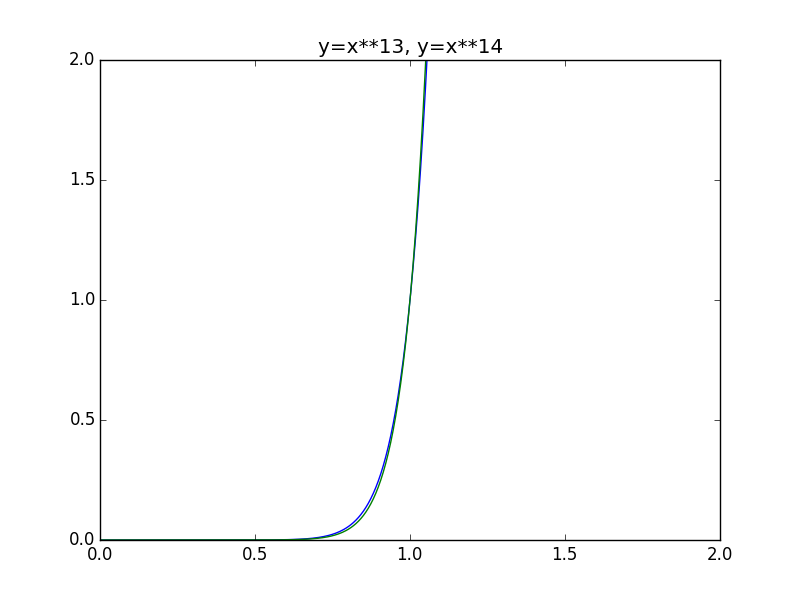
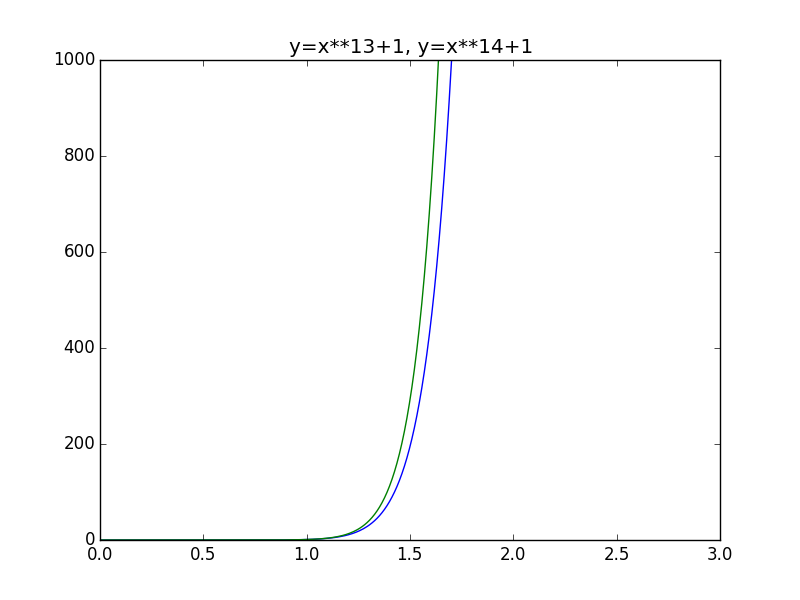
Last edits to data visualization

diff --git a/Labs/ScientificVisualization/solutions.py b/Labs/ScientificVisualization/solutions.py
@@ -1,0 +1,203 @@
+from matplotlib import pyplot as plt
+from numpy.random import normal
+from scipy.misc import comb as comb
+import numpy as np
+
+#Implement this function
+def problemOne():
+    '''
+    Order and plot the data as a horizontal bar chart.
+    '''
+    male = np.array([179.2,160.0,177.8,178.9,178,176,172.5,165.6,170.8,183.2,182.4,164,163.6,175.4,174,176.1,165.7])
+    female = np.array([167.6,142.2,164.5,165.3,165,164,158,154.9,157.4,168.4,168,151,151.4,164,158.9,162.1,155.2])
+    country = 'Austria', 'Bolivia', 'England', 'Finland', 'Germany', 'Hungary', 'Japan','North Korea', 'South Korea', 'Montenegro', 'Norway', 'Peru','Sri Lanka', 'Switzerland', 'Turkey', 'U.S.', 'Vietnam'
+    pos = np.arange(17)+.5
+
+    plt.subplot(2, 1, 1)
+    idx = np.argsort(male)
+    male = np.array(male)[idx]
+    country1 = np.array(country)[idx]
+    plt.barh(pos,male,align='center')
+    plt.yticks(pos,country1)
+
+    plt.subplot(2, 1, 2)
+    idx = np.argsort(female)
+    female = np.array(female)[idx]
+    country2 = np.array(country)[idx]
+    plt.barh(pos,female,align='center')
+    plt.yticks(pos,country2)
+    plt.show()
+
+# Implement this function
+def problemTwo():
+    '''
+    Plot some histograms with white reference lines.  Do this for 20 bins,
+    10 bins, 5 bins, and 3 bins
+    '''
+    normal_numbers = normal(size=1000)
+    plt.subplot(1, 4, 1)
+    plt.hist(normal_numbers,bins = 20)
+    plt.title("histogram")
+    plt.grid(True, color = 'w', linestyle = '-')
+
+    plt.subplot(1, 4, 2)
+    plt.hist(normal_numbers,bins=10)
+    plt.title("histogram")
+    plt.grid(True, color = 'w', linestyle = '-')
+
+    plt.subplot(1, 4, 3)
+    plt.hist(normal_numbers,bins=5)
+    plt.title("histogram")
+    plt.grid(True, color = 'w', linestyle = '-')
+
+    plt.subplot(1, 4, 4)
+    plt.hist(normal_numbers,bins=5)
+    plt.title("histogram")
+    plt.grid(True, color = 'w', linestyle = '-')
+    plt.show()
+
+# Implement this function
+def problemThree():
+    '''
+    Plot y = x^2 * sin(x) using 1000 data points and x in [0,100]
+    '''
+    x = np.linspace(0,100,num=1000)
+    y = x**2*np.sin(x)
+    plt.plot(x,y)
+    plt.show()
+
+# Implement this function
+def problemFour():
+    '''
+    Plot a scatter plot of the average heights of men against women
+    using the data from problem 1.
+    '''
+    male = np.array([179.2,160.0,177.8,178.9,178,176,172.5,165.6,170.8,183.2,182.4,164,163.6,175.4,174,176.1,165.7])
+    female = np.array([167.6,142.2,164.5,165.3,165,164,158,154.9,157.4,168.4,168,151,151.4,164,158.9,162.1,155.2])
+    country = 'Austria', 'Bolivia', 'England', 'Finland', 'Germany', 'Hungary', 'Japan','North Korea', 'South Korea', 'Montenegro', 'Norway', 'Peru','Sri Lanka', 'Switzerland', 'Turkey', 'U.S.', 'Vietnam'
+    plt.scatter(female,male)
+    plt.show()
+    
+# Implement this function
+def problemFive():
+    '''
+    Plot a contour map of z = sin(x) + sin(y) where x is in [0,12*pi] and
+    y is in [0,12*pi]
+    '''
+    x = np.linspace(0,12*np.pi,num=400)
+    y = np.linspace(0,12*np.pi,num=400)
+    X,Y = np.meshgrid(x,y)
+    Z = np.sin(X)+np.sin(Y)
+    plt.contourf(X,Y,Z,cmap=plt.get_cmap('afmhot'))
+    plt.show()
+    
+# Implement this function
+def problemSix():
+    '''
+    Plot each data set.
+    '''
+    dataI = np.array([[10,8.04],[8.,6.95],[13.,7.58],[9,8.81],[11.,8.33],[14.,9.96],[6.,7.24],[4.,4.26],[12.,10.84],[7.,4.82],[5.,5.68]])
+    dataII = np.array([[10,9.14],[8.,8.14],[13.,8.74],[9,8.77],[11.,9.26],[14.,8.10],[6.,6.13],[4.,3.10],[12.,9.13],[7.,7.26],[5.,4.74]])
+    dataIII = np.array([[10,7.46],[8.,6.77],[13.,12.74],[9,7.11],[11.,7.81],[14.,8.84],[6.,6.08],[4.,5.39],[12.,8.15],[7.,6.42],[5.,5.73]])
+    dataIV = np.array([[8.,6.58],[8.,5.76],[8.,7.71],[8.,8.84],[8.,8.47],[8.,7.04],[8.,5.25],[19.,12.50],[8.,5.56],[8.,7.91],[8.,6.89]])
+    plt.subplot(2, 2, 1)
+    plt.scatter(dataI[:,0],dataI[:,1])
+    plt.subplot(2, 2, 2)
+    plt.scatter(dataII[:,0],dataII[:,1])
+    plt.subplot(2, 2, 3)
+    plt.scatter(dataIII[:,0],dataIII[:,1])
+    plt.subplot(2, 2, 4)
+    plt.scatter(dataIV[:,0],dataIV[:,1])
+    plt.show()
+
+# Implement this function
+def problemSeven():
+    '''
+    Change the surface to a heatmap or a contour plot.  Return a string
+    of the benefits of each type of visualization.
+    '''
+    x = np.linspace(-2*np.pi,2*np.pi,num=400)
+    y = np.linspace(-2*np.pi,2*np.pi,num=400)
+    X,Y = np.meshgrid(x,y)
+    Z = np.exp(np.cos(np.sqrt(X**2 + Y**2)))
+    plt.contourf(X, Y, Z ,cmap=plt.get_cmap('afmhot'))
+    plt.show()
+
+# Implement this function
+def problemEight():
+    '''
+    Plot y = x^2 * sin(x) where x is in [0,100] and adjust to y limit to be
+    [-10^k,10^k] for k = 0,1,2,3,4.
+    '''
+    x = np.linspace(0,100,num=1000)
+    y = x**2*np.sin(x)
+    for k in range(5):
+        plt.plot(x,y)
+        plt.ylim(-10**k,10**k)
+        plt.show()
+
+# Implement this function
+def problemNine():
+    '''
+    Simplify one of your previous graphs.
+    '''
+    normal_numbers = normal(size=1000)
+    plt.hist(normal_numbers,bins = 20,edgecolor='none')
+    plt.title("histogram")
+    plt.grid(True, color = 'w', linestyle = '-')
+    axis = plt.gca()
+    axis.spines['right'].set_visible(False)
+    axis.spines['top'].set_visible(False)
+    
+    axis.yaxis.set_ticks_position('left')
+    axis.xaxis.set_ticks_position('bottom')
+
+    plt.xticks(np.arange(-4, 4.1, 1))
+    plt.yticks(np.arange(0, 140, 20))
+    plt.show()
+
+# Implement this function
+def problemTen():
+    '''
+    Plot the Bernstein polynomials for v,n in [0,3] as small multiples
+    and as the cluttered version.
+    '''
+    fig = plt.figure(dpi=100)
+    fig.suptitle('Bernstein Polynomials', fontsize=20)
+    v = range(4)
+    n = range(4)
+    x = np.linspace(0,1,num=100)
+    for v in range(4):
+        for n in range(4):
+            y = comb(n,v)*x**v*(1-x)**(n-v)
+            ax = plt.subplot(4,4,4*v+n+1)
+            ax.plot(x,y , lw=2)
+    plt.show()
+    for v in range(4):
+        for n in range(4):
+            y = comb(n,v)*x**v*(1-x)**(n-v)
+            plt.plot(x,y , lw=2)
+    plt.show()
+
+if __name__ == '__main__':
+    print "1"
+    problemOne()
+    print "2"
+    problemTwo()
+    print "3"
+    problemThree()
+    print "4"
+    problemFour()
+    print "5"
+    problemFive()
+    print "6"
+    problemSix()
+    print "7"
+    problemSeven()
+    print "8"
+    problemEight()
+    print "9"
+    problemNine()
+    print "10"
+    problemTen()
+    

diff --git a/Labs/ScientificVisualization/DataVisualization.tex b/Labs/ScientificVisualization/DataVisualization.tex
@@ -325,8 +325,7 @@ F = Y**2 - X**3 + X**2
 plt.contourf(X, Y, F, [-2,-1,0.0001,1,2,3,4,5] ,cmap=plt.get_cmap('afmhot'))
 \end{lstlisting}
 
-
-TODO add in a list (and pix) of a few sequential and diverging colormaps from \url{http://matplotlib.org/examples/color/colormaps_reference.html} 
+Two sequential colormaps are \li{afmhot} and \li{cool}.  Two diverging colormaps are \li{seismic} and \li{bwr}.  These colormaps along with their color scheme can be found on \url{http://matplotlib.org/examples/color/colormaps_reference.html}.
 
 
 
@@ -543,7 +542,7 @@ from Problem 3 and plot it a few more times adjusting the scale by setting the $
 
 
 \subsubsection*{5. Filtering the Data}
-Sometimes important information about a subset of the data can be obscured by considering the whole data set. For example, if we were to 
+Sometimes important information about a subset of the data can be obscured by considering the whole data set.  Some information is difficult to notice when all the data is combined into one plot.  But when the data is divided into subsets, more information can be gathered.  For example, when the height of males and females are plotted for multiple countries, there may appear to be a large variance.  But when males' heights and females' heights are isolated, more information about the variance can be deduced.
 
 
 \begin{comment}
@@ -558,7 +557,7 @@ For example, data that grows very rapidly or that is tightly clustered may be be
 
 This is easily done in matplotlib with the command \li{plt.semilogy(x,y)}.  The syntax is the same as \li{plt.plot()}.
 
-On the left side of Figure \ref{fig:exp}, $x^{14}+1$ and $x^{13}+1$ look almost idential. Graphic them on a log-lin plot (as on the right side of Figure \ref{fig:exp}) makes their differences apparent.  Beware, however, that you should not label the transformed axis with transformed labels, because the reader ultimately needs the untransformed values.  So a log-lin plot could have $y$-axis with $10^{1},10^{2},10^{3},10^{4}$ etc.  all equidistant.  And not with values $1,2,3,4$ equidistant (see Figure ).
+On the left side of Figure \ref{fig:exp}, $x^{14}+1$ and $x^{13}+1$ look almost idential. Graphic them on a log-lin plot (as on the right side of Figure \ref{fig:exp}) makes their differences apparent.  Beware, however, that you should not label the transformed axis with transformed labels, because the reader ultimately needs the untransformed values.  So a log-lin plot could have $y$-axis with $10^{1},10^{2},10^{3},10^{4}$ etc.  all equidistant.  And not with values $1,2,3,4$ equidistant.
 
 \begin{figure}[h]
 \centering
@@ -572,6 +571,15 @@ On the left side of Figure \ref{fig:exp}, $x^{14}+1$ and $x^{13}+1$ look almost 
 \end{subfigure}
 \caption{Plotting exponential graphs on a log-lin plot}
 \label{fig:exp}
+\end{figure}
+
+\begin{figure}
+\centering
+\includegraphics[width=\textwidth]{log_plots.pdf}
+\caption{Here are some functions plotted on various logarithmic and linear scales. 
+The dark blue line is $y=x$, the green line is $y=\log(x)$, the red line is $y=e^x$, and the light blue line is $y=x^3$. 
+We have used different ranges on the $y$-axes to highlight appropriate parts of the graphs.}
+\label{fig:log_plots}
 \end{figure}
 
 
@@ -625,15 +633,6 @@ so exponential data looks linear on a log-lin plot.
 Finally, data of the form $y = a\log(x)+b$ will look linear on a lin-log plot. 
 See Figure \ref{fig:log_plots}.
 \end{comment}
-
-\begin{figure}
-\centering
-\includegraphics[width=\textwidth]{log_plots.pdf}
-\caption{Here are some functions plotted on various logarithmic and linear scales. 
-The dark blue line is $y=x$, the green line is $y=\log(x)$, the red line is $y=e^x$, and the light blue line is $y=x^3$. 
-We have used different ranges on the $y$-axes to highlight appropriate parts of the graphs.}
-\label{fig:log_plots}
-\end{figure}
 
 Be warned that many different functions can look almost linear on log plots. 
 Thus, if you graph your data on a log-log plot and you see a line, you cannot conclude that your data must follow a polynomial. 
@@ -713,7 +712,7 @@ Do this as follows:
 \end{comment}
 
 
-
+\begin{comment}
 \begin{problem}
 Given the following data, 
 
@@ -737,7 +736,7 @@ Y & N &  24 & S & Y & Y & Y\\
 
 explore it. Plot it in different ways, zoom in and out, and do a transformation.
 \end{problem}
-
+\end{comment}
 
 
 \section*{Communicating Data with Visualizations}

diff --git a/Labs/ScientificVisualization/spec.py b/Labs/ScientificVisualization/spec.py
@@ -1,0 +1,83 @@
+#Implement this function
+def problemOne():
+    '''
+    Order and plot the data as a horizontal bar chart.
+    '''
+    male = np.array([179.2,160.0,177.8,178.9,178,176,172.5,165.6,170.8,183.2,182.4,164,163.6,175.4,174,176.1,165.7])
+    female = np.array([167.6,142.2,164.5,165.3,165,164,158,154.9,157.4,168.4,168,151,151.4,164,158.9,162.1,155.2])
+    country = 'Austria', 'Bolivia', 'England', 'Finland', 'Germany', 'Hungary', 'Japan','North Korea', 'South Korea', 'Montenegro', 'Norway', 'Peru','Sri Lanka', 'Switzerland', 'Turkey', 'U.S.', 'Vietnam'
+    raise NotImplementedError("Problem 1 not implemented.")
+
+# Implement this function
+def problemTwo():
+    '''
+    Plot some histograms with white reference lines.  Do this for 20 bins,
+    10 bins, 5 bins, and 3 bins
+    '''
+    raise NotImplementedError("Problem 2 not implemented.")
+
+# Implement this function
+def problemThree():
+    '''
+    Plot y = x^2 * sin(x) using 1000 data points and x in [0,100]
+    '''
+    raise NotImplementedError("Problem 3 not implemented.")
+
+# Implement this function
+def problemFour():
+    '''
+    Plot a scatter plot of the average heights of men against women
+    using the data from problem 1.
+    '''
+    raise NotImplementedError("Problem 4 not implemented.")
+    
+# Implement this function
+def problemFive():
+    '''
+    Plot a contour map of z = sin(x) + sin(y) where x is in [0,12*pi] and
+    y is in [0,12*pi]
+    '''
+    raise NotImplementedError("Problem 5 not implemented.")
+    
+# Implement this function
+def problemSix():
+    '''
+    Plot each data set.
+    '''
+    dataI = np.array([[10,8.04],[8.,6.95],[13.,7.58],[9,8.81],[11.,8.33],[14.,9.96],[6.,7.24],[4.,4.26],[12.,10.84],[7.,4.82],[5.,5.68]])
+    dataII = np.array([[10,9.14],[8.,8.14],[13.,8.74],[9,8.77],[11.,9.26],[14.,8.10],[6.,6.13],[4.,3.10],[12.,9.13],[7.,7.26],[5.,4.74]])
+    dataIII = np.array([[10,7.46],[8.,6.77],[13.,12.74],[9,7.11],[11.,7.81],[14.,8.84],[6.,6.08],[4.,5.39],[12.,8.15],[7.,6.42],[5.,5.73]])
+    dataIV = np.array([[8.,6.58],[8.,5.76],[8.,7.71],[8.,8.84],[8.,8.47],[8.,7.04],[8.,5.25],[19.,12.50],[8.,5.56],[8.,7.91],[8.,6.89]])
+    raise NotImplementedError("Problem 6 not implemented.")
+
+# Implement this function
+def problemSeven():
+    '''
+    Change the surface to a heatmap or a contour plot.  Return a string
+    of the benefits of each type of visualization.
+    '''
+    raise NotImplementedError("Problem 7 not implemented.")
+
+# Implement this function
+def problemEight():
+    '''
+    Plot y = x^2 * sin(x) where x is in [0,100] and adjust to y limit to be
+    [-10^k,10^k] for k = 0,1,2,3,4.
+    '''
+    raise NotImplementedError("Problem 8 not implemented.")
+
+
+# Implement this function
+def problemNine():
+    '''
+    Simplify one of your previous graphs.
+    '''
+    raise NotImplementedError("Problem 10 not implemented.")
+
+# Implement this function
+def problemTen():
+    '''
+    Plot the Bernstein polynomials for v,n in [0,3] as small multiples
+    and as the cluttered version.
+    '''
+    raise NotImplementedError("Problem 11 not implemented.")
